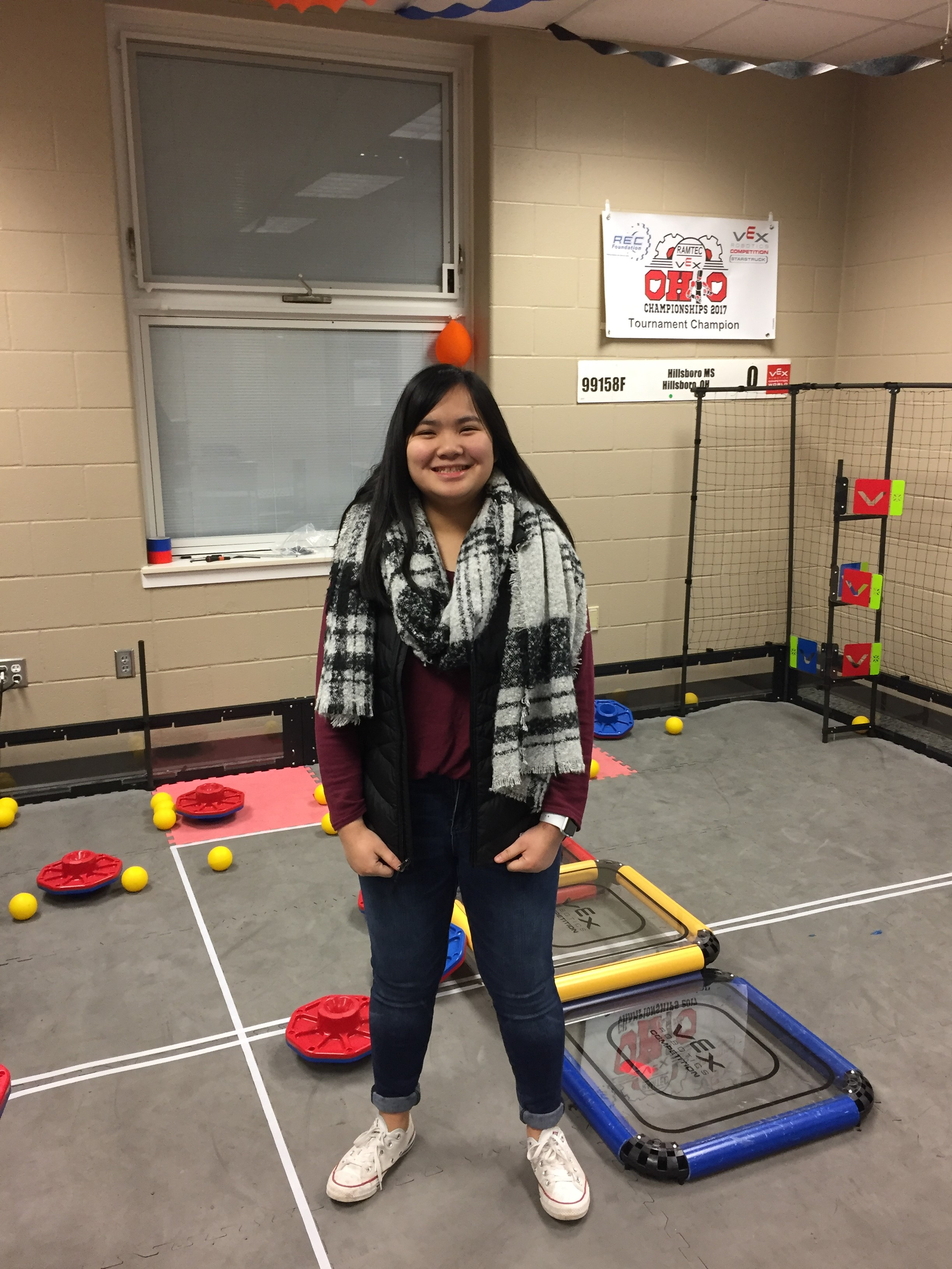
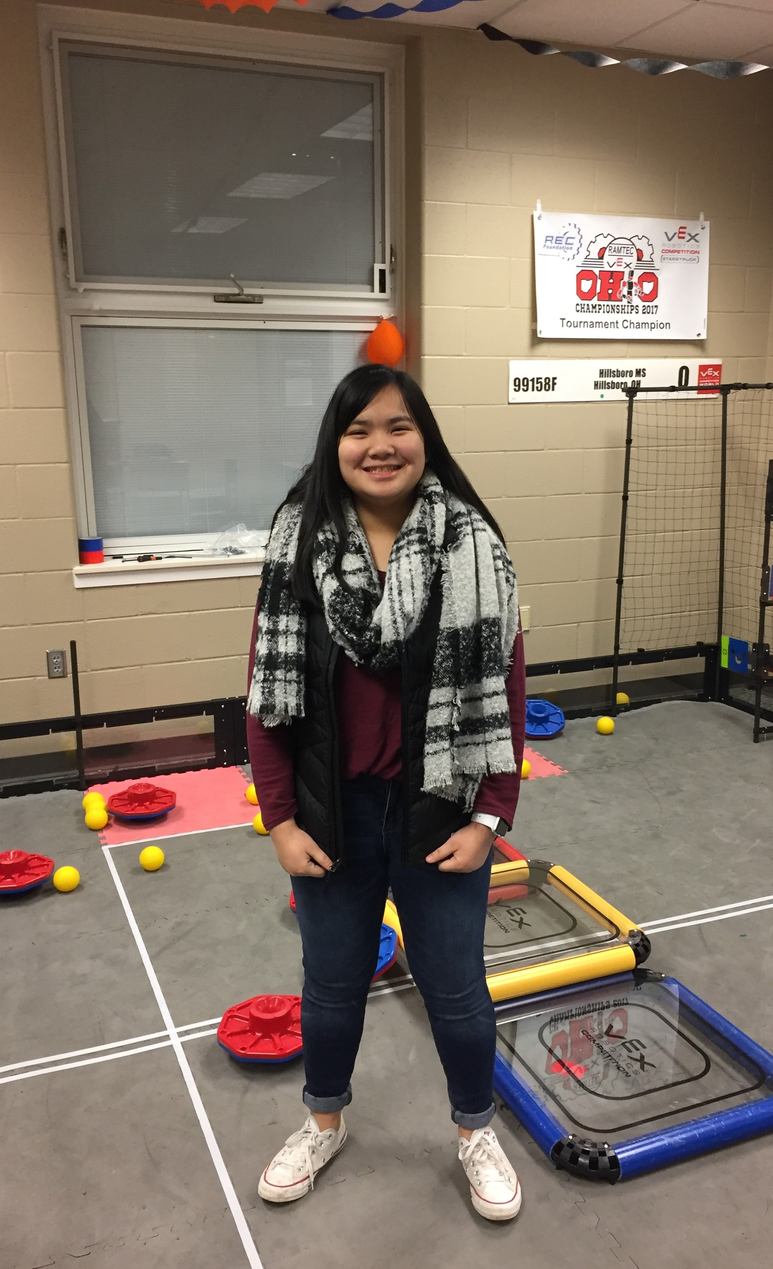
Added Will, Nick and Evan's photos

diff --git a/ChildrenOfTheCornMiddleSchool.html b/ChildrenOfTheCornMiddleSchool.html
@@ -96,7 +96,9 @@
 <div class="w3-content w3-justify w3-padding-64">
     <h2 class="w3-text-light-grey">Meet The Team</h2>
     <hr style="width:200px;" class="w3-opacity">
+    <h5 style="color:white">NOTE: Hover your mouse over a photo to learn more about a student.</h5>
 </div>
+
 
 <!-- Begin Team Individual Pics for large and medium screens -->
 <div class="w3-hide-small" style="margin: 0% 0% 0% 16%;">
@@ -106,7 +108,7 @@
                 <div class="flip-card card">
                     <div class="flip-card-inner">
                         <div class="flip-card-front">
-                            <img src="Images/PrototypeIntake.jpg" alt="Will" style="width:100%; height: 100%;">
+                            <img src="Images/WillPic.jpg" alt="Will" style="width:100%; height: 100%;">
                         </div>
                         <div class="flip-card-back card">
                             <h1>Will</h1>
@@ -119,7 +121,7 @@
                 <div class="flip-card card" style="margin-top:15%;">
                     <div class="flip-card-inner">
                         <div class="flip-card-front">
-                            <img src="Images/PrototypeIntake.jpg" alt="Nick" style="width:100%; height: 100%;">
+                            <img src="Images/NickPic.jpg" alt="Nick" style="width:100%; height: 100%;">
                         </div>
                         <div class="flip-card-back card">
                             <h1>Nick</h1>
@@ -134,7 +136,7 @@
                 <div class="flip-card card">
                     <div class="flip-card-inner">
                         <div class="flip-card-front">
-                            <img src="Images/PrototypeIntake.jpg" alt="Evan" style="width:100%; height: 100%;">
+                            <img src="Images/EvanPic.jpg" alt="Evan" style="width:100%; height: 100%;">
                         </div>
                         <div class="flip-card-back card">
                             <h1>Evan</h1>
